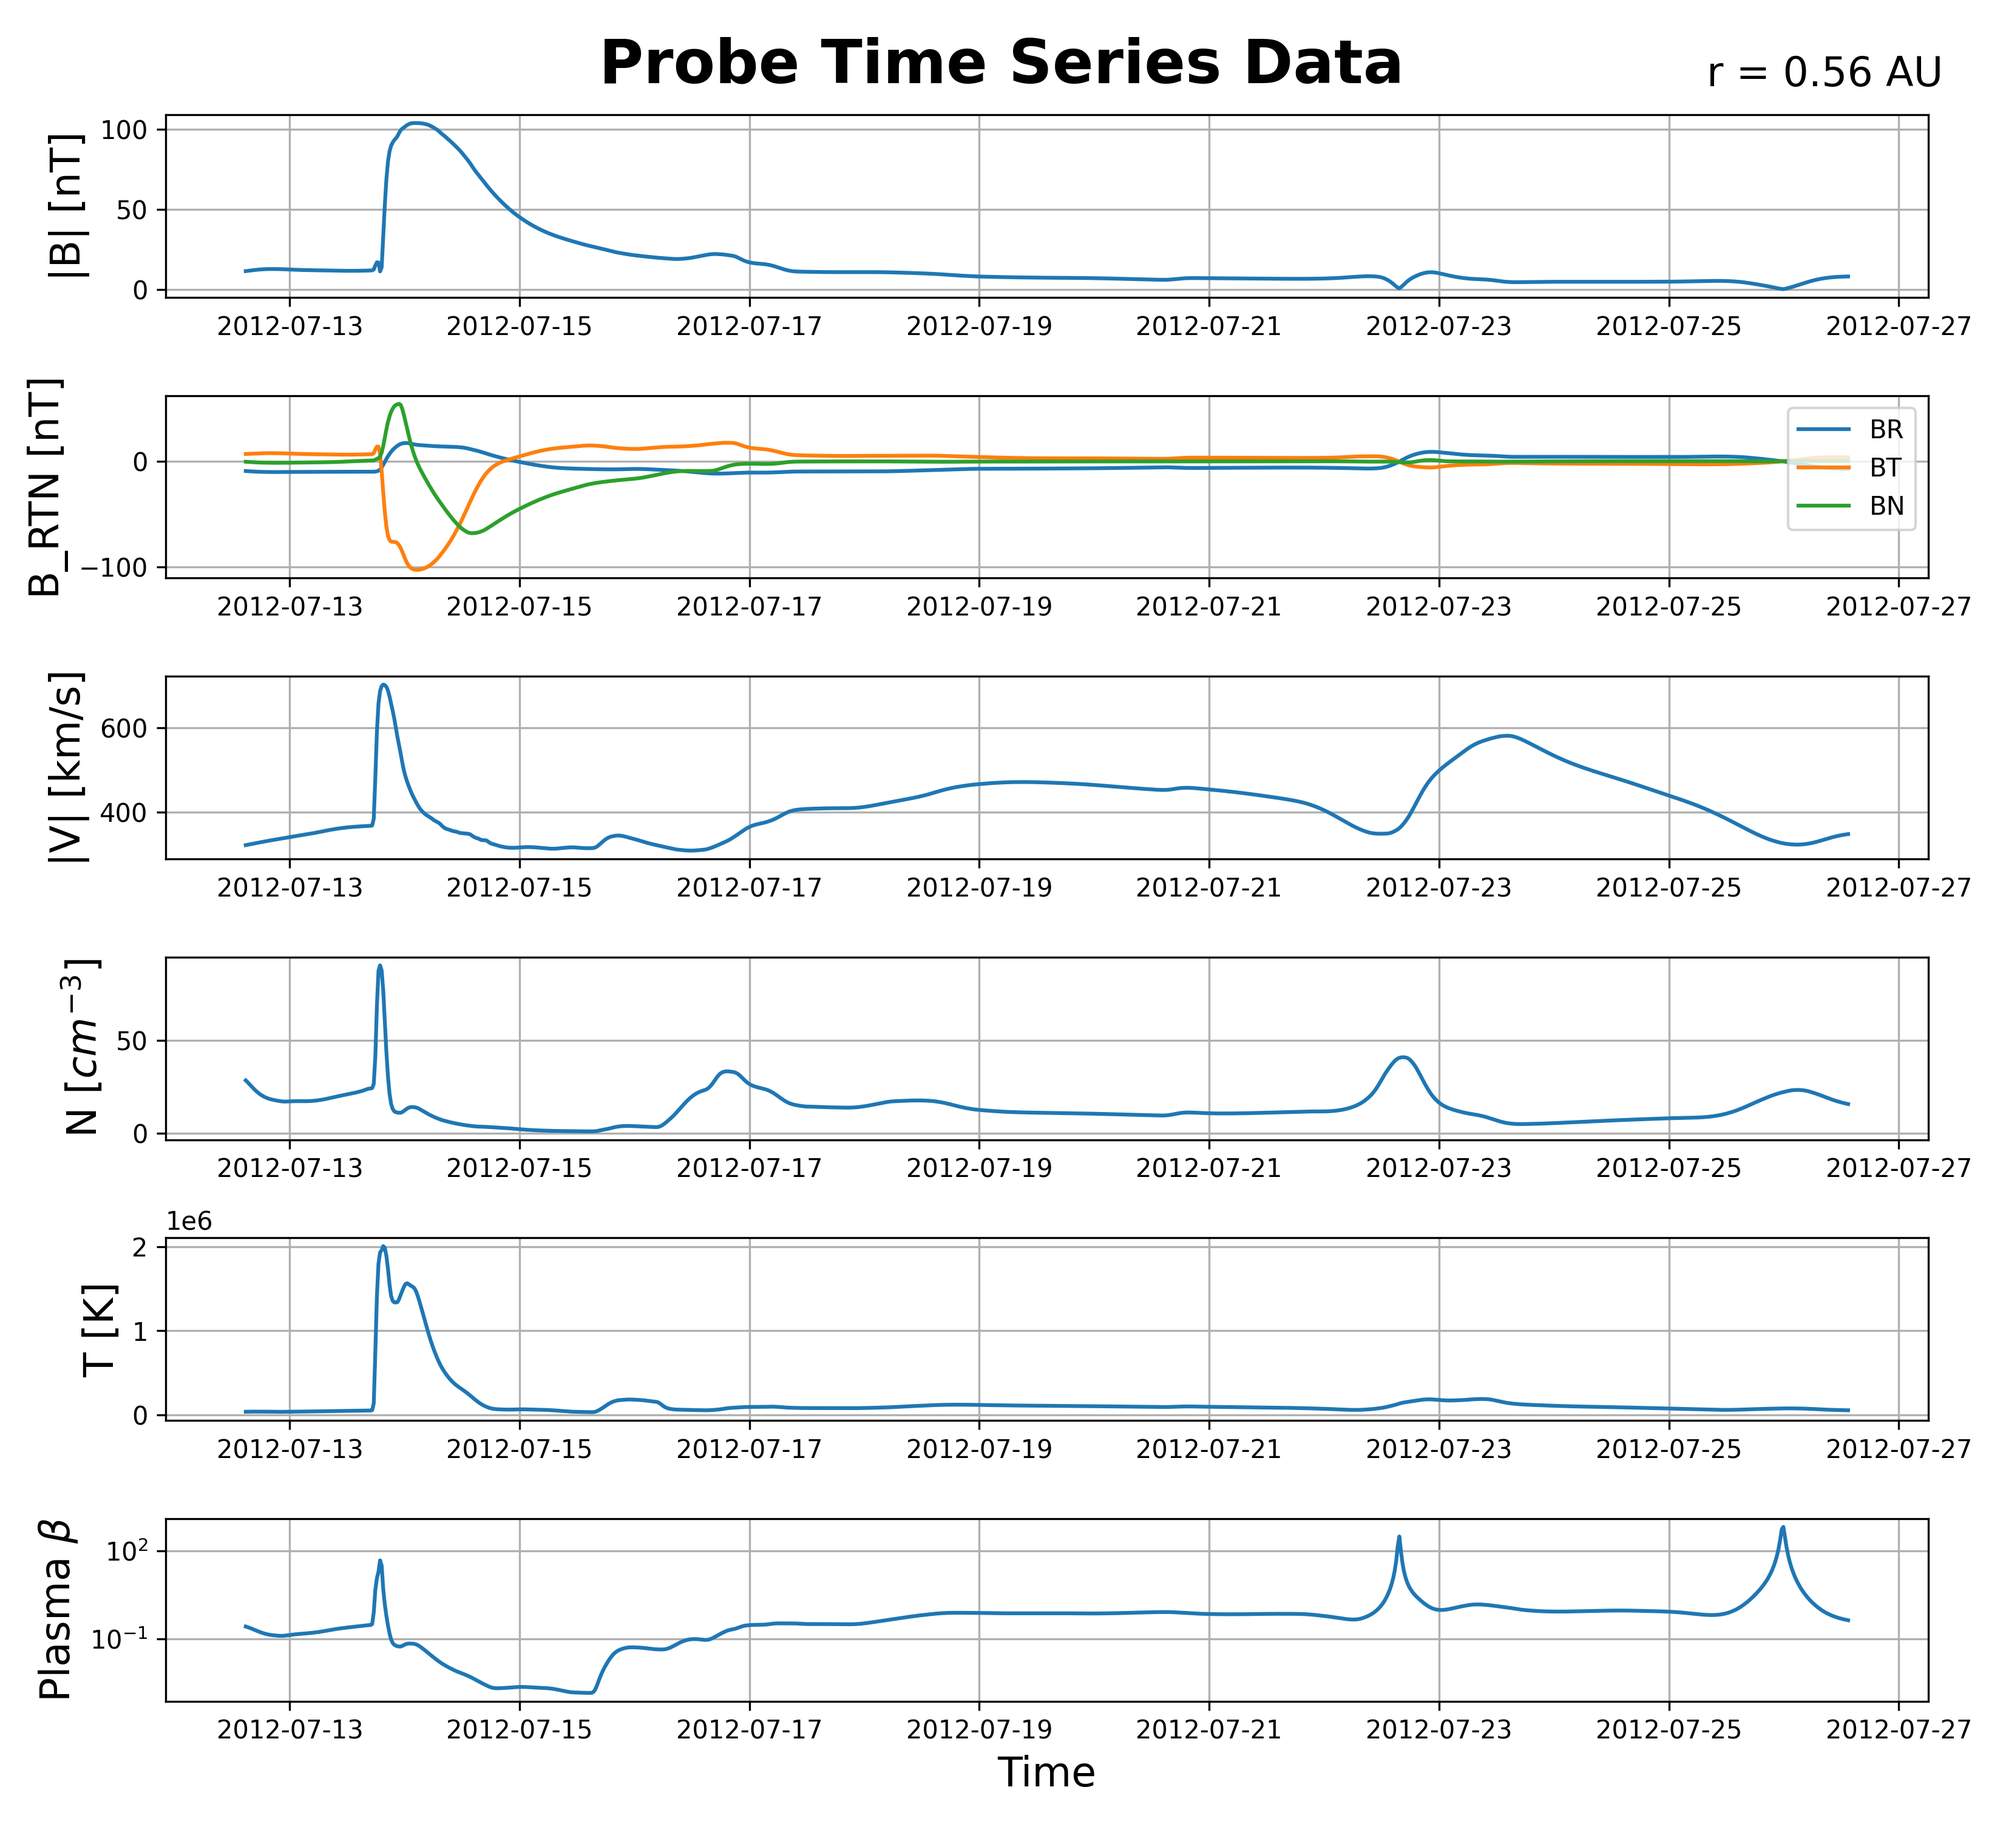
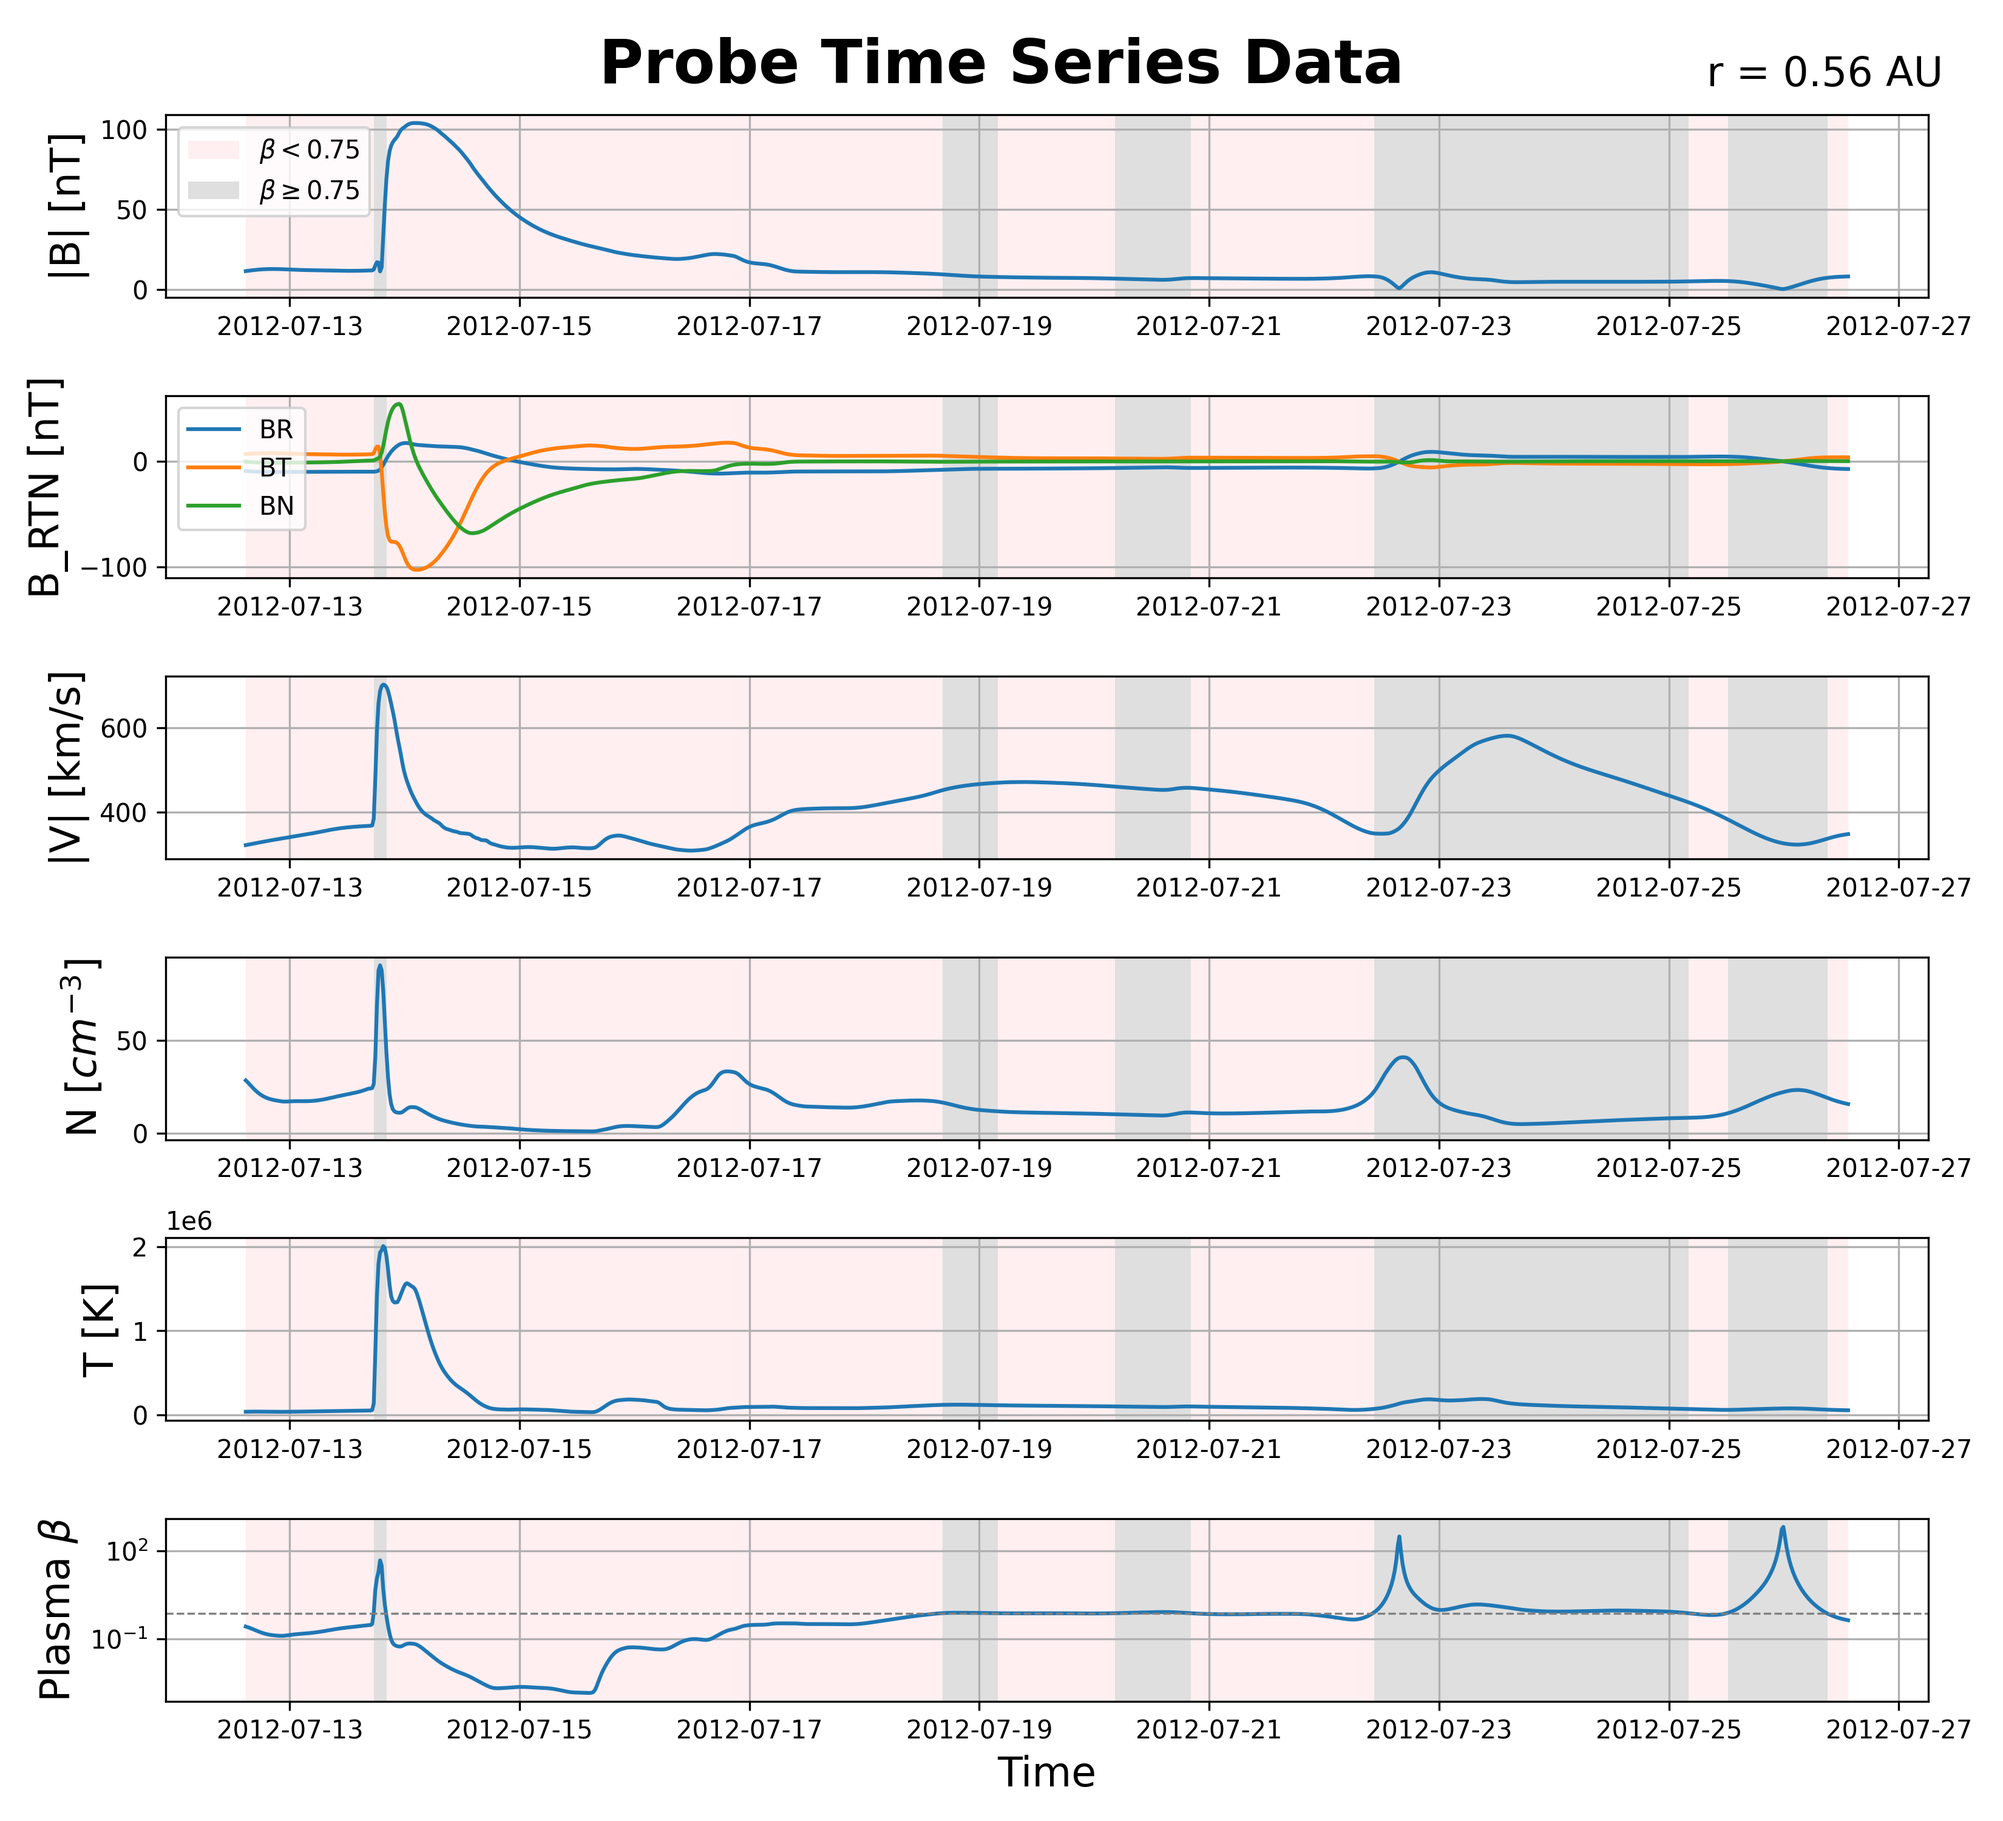
commit on Oct 18th, 2026 on 2:10 pm

diff --git a/scripts/simulation_post_processing/B_predictions/Erika_2026_redo/magnetic_structure.py b/scripts/simulation_post_processing/B_predictions/Erika_2026_redo/magnetic_structure.py
@@ -7,9 +7,12 @@
 import numpy as np
 import h5py
 import matplotlib.pyplot as plt
+import matplotlib.dates as mdates
+from matplotlib.patches import Patch
 import polars as pl
 import pandas as pd
 import sys
+from pathlib import Path
 from datetime import timedelta, datetime
 
 ########## Settings ##########
@@ -18,9 +21,10 @@ from datetime import timedelta, datetime
 # pl.Config.set_tbl_rows(-1)      # polars settings to show all the rows
 
 # what variation to analyze
-variation = "latitudinal"        # options: "radial", "longitudinal", "latitudinal"
+variation = "radial"        # options: "radial", "longitudinal", "latitudinal"
 radii_lat_lon_analysis = [0.33, 1.0]
 offsets_to_plot = [-20, -10, 0, 10, 20]
+beta_threshold = 0.75        # Pink below this value; gray at or above it.
 
 # Boltzmann constant in J/K, and mu_0 in H/m
 k_B = 1.380649e-23 
@@ -160,7 +164,6 @@ def _read_probe_axes(h5, probe_count):
 def _nearest_axis_index(axis, requested):
     return int(np.nanargmin(np.abs(axis.astype(float) - requested)))
 
-# This function is only for CMEs
 def radius_fraction_to_au(radius_fraction):
     """Convert the stored radial coordinate to the physical AU coordinate."""
     simulation_inner_radius_au = 0.33
@@ -221,6 +224,16 @@ if __name__ == "__main__":
     # the file path
     hdf5_filepath = "/Users/syedraza/cmeuncerpy/Data/probe_cone/cme_probes_172.h5"
 
+    # Resolve output paths beside this script, regardless of the launch directory.
+    output_folders = {
+        "radial": "Radial_evolution",
+        "longitudinal": "Longitudinal_variation",
+        "latitudinal": "Latitudinal_variation",
+    }
+    output_dir = Path(__file__).resolve().parent / output_folders[variation]
+    output_dir.mkdir(parents=True, exist_ok=True)
+    print(f"Saving figures to {output_dir}")
+
     ########## THE RADIAL EVOLUTION PLOTS ##########
 
     if variation == "radial":
@@ -262,18 +275,35 @@ if __name__ == "__main__":
             # calculate plasma beta
             probe_data = plasma_beta(probe_data)
 
-            # plot |B|, B_xyz, |V|, N, T
+            time = mdates.date2num(probe_data["time"].to_list())
+            beta = probe_data["plasma_beta"].to_numpy()
+
+            # Shade full-height time intervals on every panel. Each interval
+            # uses its starting beta; missing beta leaves the background clear.
+            valid = np.isfinite(beta[:-1]) & np.isfinite(beta[1:])
+            for mask, color in ((valid & (beta[:-1] < beta_threshold), "pink"),
+                                (valid & (beta[:-1] >= beta_threshold), "gray")):
+                # Merge adjacent intervals to avoid visible seams.
+                edges = np.diff(np.r_[False, mask, False].astype(int))
+                for start, end in zip(np.flatnonzero(edges == 1),
+                                      np.flatnonzero(edges == -1)):
+                    for ax in axs:
+                        ax.axvspan(time[start], time[end], color=color,
+                                   alpha=0.25, linewidth=0, zorder=0)
+
             label = f"r = {radius_au:.2f} AU"
             name = f"r_{radius_au:.2f}_AU"
             axs[0].plot(probe_data["time"], probe_data["|B|"])
-            axs[1].plot(probe_data["time"], probe_data["Bx"], label=f"BR")
-            axs[1].plot(probe_data["time"], probe_data["By"], label=f"BT")
-            axs[1].plot(probe_data["time"], probe_data["Bz"], label=f"BN")
-            axs[2].plot(probe_data["time"], probe_data["|V|"])
-            axs[3].plot(probe_data["time"], probe_data["density"])
-            axs[4].plot(probe_data["time"], probe_data["T"])
-            axs[5].plot(probe_data["time"], probe_data["plasma_beta"])
+            for field, component in (("Bx", "BR"), ("By", "BT"), ("Bz", "BN")):
+                axs[1].plot(probe_data["time"], probe_data[field], label=component)
+            for ax, field in zip(axs[2:], ("|V|", "density", "T", "plasma_beta")):
+                ax.plot(probe_data["time"], probe_data[field])
             axs[5].set_yscale('log')
+            axs[5].axhline(beta_threshold, color="gray", linewidth=0.8, linestyle="--")
+            axs[0].legend(handles=[
+                Patch(facecolor="pink", alpha=0.25, label=rf"$\beta < {beta_threshold:g}$"),
+                Patch(facecolor="gray", alpha=0.25, label=rf"$\beta \geq {beta_threshold:g}$"),
+            ])
 
             # set the labels and legends
             axs[0].set_ylabel("|B| [nT]", fontsize=16)
@@ -298,7 +328,7 @@ if __name__ == "__main__":
 
             # save the figure
             fig.tight_layout()
-            fig.savefig(f"Radial_evolution/Radial_evolution_{name}.png", dpi=300)
+            fig.savefig(output_dir / f"Radial_evolution_{name}.png", dpi=300)
             plt.close(fig)
 
     ########## THE LONGITUDINAL VARIATIONS PLOTS ##########
@@ -373,8 +403,8 @@ if __name__ == "__main__":
             fig2.tight_layout()
 
             # save the figure outside the loop
-            fig.savefig(f"Longitudinal_variation/Longitudinal_variations_B_{name}.png", dpi=300)
-            fig2.savefig(f"Longitudinal_variation/Longitudinal_variations_BRTN_{name}.png", dpi=300)
+            fig.savefig(output_dir / f"Longitudinal_variations_B_{name}.png", dpi=300)
+            fig2.savefig(output_dir / f"Longitudinal_variations_BRTN_{name}.png", dpi=300)
             plt.close(fig)
             plt.close(fig2)
 
@@ -449,7 +479,7 @@ if __name__ == "__main__":
             fig2.tight_layout()
 
             # save the figure outside the loop
-            fig.savefig(f"Latitudinal_variation/Latitudinal_variations_B_{name}.png", dpi=300)
-            fig2.savefig(f"Latitudinal_variation/Latitudinal_variations_BRTN_{name}.png", dpi=300)
+            fig.savefig(output_dir / f"Latitudinal_variations_B_{name}.png", dpi=300)
+            fig2.savefig(output_dir / f"Latitudinal_variations_BRTN_{name}.png", dpi=300)
             plt.close(fig)
             plt.close(fig2)
